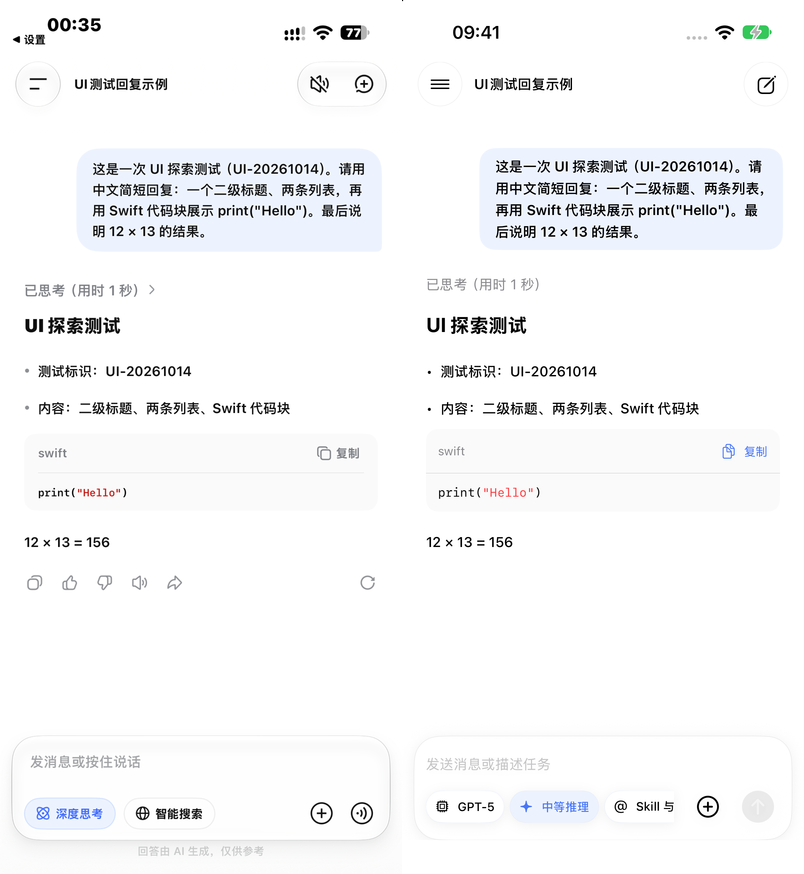
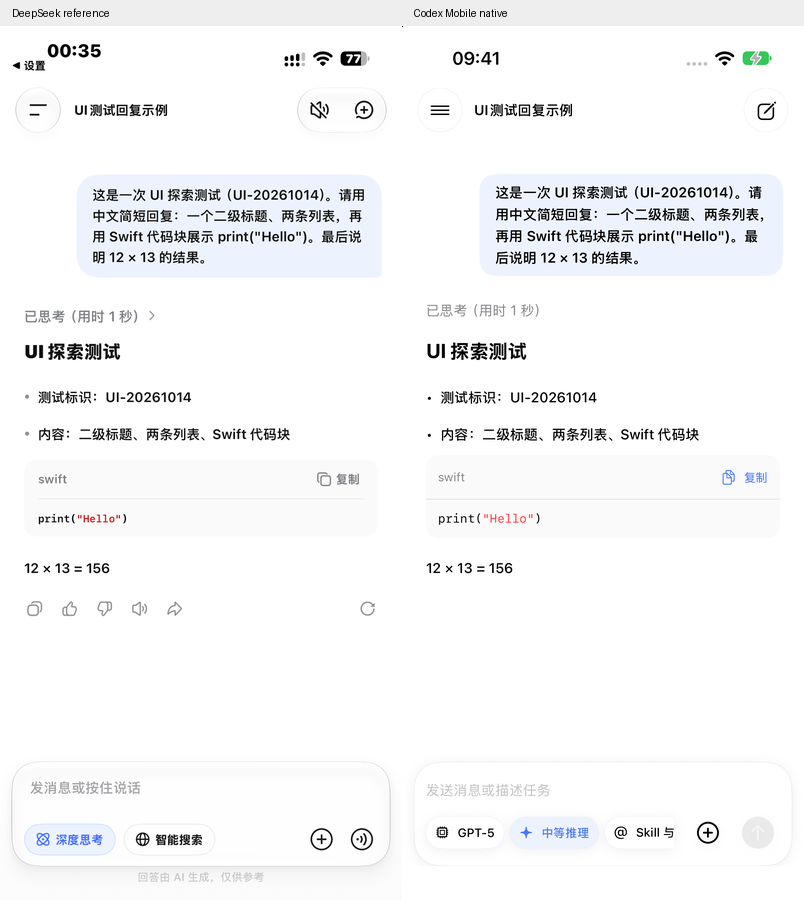
docs(iOS): 说明原生开关并记录整合验证边界
新增功能：
- 无

主要修改：
- 说明默认旧界面、双向开关和完整启动生效规则
- 同步检查点恢复、共享业务及发布日志读取契约
- 更新新鲜截图对照和实际分层验证记录
- 明确真机不可用及旧布局对照中的模拟器自动化限制

diff --git a/docs/superpowers/plans/2026-10-14-native-ios-deepseek.md b/docs/superpowers/plans/2026-10-14-native-ios-deepseek.md
@@ -70,24 +70,28 @@
 
 ## Task 3：双向切换检查点与启动恢复
 
-- [ ] 先写失败测试：初次默认旧实现；普通前后台不切换；正文/附件/设备/项目/会话/设置检查点成功后才改变偏好；存储失败不改变；恢复不自动发送。
-- [ ] 验证失败：`npm test -- tests/ui/native-ui-switch.test.ts`。
-- [ ] 用现有草稿二进制序列化格式存储专用启动检查点，不污染用户手动草稿列表；启动恢复后不发送内容、不重放待确认写操作。
-- [ ] 两套设置连接同一个偏好接口，显示下次启动生效。原生初始化错误页保留手动回旧界面入口。
-- [ ] 验证 Web→原生→Web 和应用重启，运行相关回归、typecheck、构建契约并提交。
+- [x] 先写失败测试：初次默认旧实现；普通前后台不切换；正文/附件/设备/项目/会话/设置检查点成功后才改变偏好；存储失败不改变；恢复不自动发送。
+- [x] 验证失败：`npm test -- tests/ui/native-ui-switch.test.ts`。
+- [x] 用现有草稿二进制序列化格式存储专用启动检查点，不污染用户手动草稿列表；启动恢复后不发送内容、不重放待确认写操作。
+- [x] 两套设置连接同一个偏好接口，显示下次启动生效。原生初始化错误页保留手动回旧界面入口。
+- [x] 验证 Web→原生→Web 和应用重启，运行相关回归、typecheck、构建契约并提交。
+
+整合验收：真实 iPhone 16 Pro / iOS 27 模拟器完成 native→native→Web→native 的完整进程重启，正文和本地选图附件均保留、当前启动保持原界面；最终清理测试输入并保存回旧界面偏好。`test_sim_2026-10-14T14-42-05-393Z_pid23807_066029d3.xcresult` 通过。iOS 27 WebKit 在设备设置弹层未返回 checkbox AX 节点；该一步按新鲜截图的可见位置实际点击，并等待仅 DEBUG 的宿主保存值探针确认，然后以冷启动原生根与内容验证结果。未用 DOM 点击或测试直接写偏好代替用户切换。Task3 规格、质量与最终整合只读审查均通过。
 
 ## Task 4：真实运行与无障碍/视觉回归
 
-- [ ] 检查 iPhone 竖屏新对话/会话/抽屉/设置/输入与键盘、浅深色；其他尺寸不截断、不遮挡输入。
-- [ ] VoiceOver 控件有名称，动态字号不截断核心操作，Reduce Motion 下取消抽屉大幅移动。
-- [ ] 用独立测试会话验收发送、流式、停止、审批、历史/分页、附件/草稿、队列、工具与 Diff，结束及时归档。
-- [ ] 新鲜截图与参考进行归一化对比，记录仅因 CM 功能/品牌差异而有意不同的区域。
-- [ ] 可用真机时尝试安装/运行；安装签名与真机数据保留分别记录，不用模拟器结果替代。
-- [ ] 先规格审查，再 SwiftUI 正确性/质量审查，所有真实问题解决后提交。
+- [x] iPhone 竖屏新对话/会话/抽屉/设置/输入及横屏操作通过，深色与系统无障碍大字号的设置/横屏输入用例通过；iPad真实构建运行截图核对基本布局。
+- [x] 静态与运行时AX核对控件名称，动态字号核心操作仍可达；Reduce Motion取消大幅位移。未声称真机VoiceOver手势已验证。
+- [x] 独立真实网关会话完成发送、回复与归档，切换中的图片和正文真实重启恢复；审批、历史/分页、队列、工具与Diff采用实际App控制器回归和原生富内容参考用例分层覆盖。
+- [x] 更新新鲜402pt并排对照及叠图，保留CM模型/推理/Skill入口、移除DeepSeek独有操作的有意差异。
+- [x] 真机连接检查仍为unavailable；没有把模拟器或设备构建当作覆盖安装和数据保留验证。
+- [x] 规格、SwiftUI质量与最终整合审查通过；修复发现的输入旧绑定、切换未就绪超时、已有线程恢复配置覆盖及发布日志缺失问题。
+
+详见 `docs/research/deepseek-ios-2026-10-14/native-validation.json`。旧Web的安全区与URL连续收键盘回归通过；两个旧中文输入/发送自动化在iOS27仍存在基线焦点时序失败，原ZStack无原生宿主对照同样复现，未记为通过。键盘34pt假阳性已用真实逐帧采样替换旧瞬态viewport推算，严格阈值和真实尾跳正对照均保留。
 
 ## Task 5：协调发布与交付
 
-- [ ] `git diff --check`、必要客户端/构建/发布回归、`typecheck` 通过，保存四项 required checks 验证记录。
+- [x] `git diff --check`、121文件/1214项全量、106项本机默认Node构建契约、157项发布Python、30项协调恢复及typecheck通过，保存四项required checks日志；ready文件绑定随后推送的固定SHA。
 - [ ] 提交并推送固定 SHA，再 `releasectl ready`；不得自行创建正式版本或独立发包。
 - [ ] 等待成功 batch receipt，核对 GitHub 双端、LAN APK/签名 IPA、HTTPS OTA、unsigned 软件源版本/中文日志。
 - [ ] 回复固定 OTA 安装页、APK、IPA 链接与两端版本/大小/SHA-256、IPA 签名状态，说明默认旧界面及开关路径。

diff --git a/docs/native-ui-business-bridge.md b/docs/native-ui-business-bridge.md
@@ -104,7 +104,15 @@ ConfiguredApp 使用真实 `scopedThreads`、`projectDirectories`、`collapsedPr
 - `NativeSnapshot.richContent` 仅提供当前实际内容所需的资源：本地 Markdown 图片 `kind=image, text=原始href, value=缩略URL, previewURL=原图URL`；Mermaid `kind=html, text=规范化LF后的原始源码, value=既有strict引擎生成的SVG`。绘图仅在专用离屏容器布局，没有 DOM 查询或点击业务动作。
 - html/SVG 的 Swift 隔离 WK 无业务桥与持久 store；audio/video/file 使用专门原生展示和下载。没有整屏旧网页业务兜底。
 
-冷启动检查点、双向界面切换与发布验收仍属于 Task3 / 协调入口。
+### 双向切换与启动检查点
+
+- iOS 首次默认 Web；Swift 在进程首次读取偏好后冻结本次模式。两边设置共用 `settings.native-ui` / `NativeSwitchBoundary`，只有专用 IndexedDB 检查点完整事务成功后，才请求宿主保存下次启动偏好；宿主写入失败恢复原值。
+- `codexMobileNativePreference({enabled?})` 通过可信首页桥读取或保存偏好，回传 `{enabled, active}`；当前运行模式不随偏好变化。未就绪或恢复失败时禁用切换；丢失回执有按请求 ID 匹配的有界错误回收。
+- 检查点使用独立数据库，不进入手动草稿列表。保存全部已挂载工作区正文、图片、文件完整二进制、设备、项目、线程与发送配置。设置使用明确白名单；不复制 HTTP session/pending writes、审批秘密答案或待确认写操作。
+- 已准备切换后继续编辑，会串行合并最新状态；同一 File 的二进制读取缓存避免每个字符重复读取。存储失败显示错误、保留当前输入。冷启动先恢复目标与内容再挂载业务；已有线程的首轮 resume 保留本地发送选择，同时同步服务器消息、访问状态，之后普通重连仍采用服务器设置。
+- 人工“使用旧界面恢复”只揭示当前 WK，设置一次性呈现恢复标记并解除原生确认，不重载文档、不重挂业务工作区、不重连传输、不改变持久偏好。原生专用 runtime 停止发布，旧 Web 的设置、面板和确认恢复原有操作。
+
+正式构建、统一版本、签名与渠道回验继续由发布协调入口负责。
 
 ## 验证记录
 

diff --git a/docs/README.md b/docs/README.md
@@ -7,6 +7,7 @@
 - [仓库协作约定](../AGENTS.md)与 [Git 提交规范](commit-conventions.md)：开发、验证和交付要求。
 - [发布协调说明](release-coordination.md)：本项目 releasectl 配置、适配器入口、必要验证、共同凭证及实际验收状态。
 - [iOS OTA 发布](ios-ota-release.md)：本机签名、身份连续性、固定渠道、软件源发布文档入口及安装诊断。
+- [原生 iOS 界面桥接](native-ui-business-bridge.md)：双向切换、检查点与共享业务边界。
 - [iOS 模拟器验证](ios-simulator-verification.md)：可复用操作步骤与按日期保留的验收结果。
 - [协议基准](../protocol/app-server-v2/README.md)：固定快照的版本、来源和使用边界。
 
@@ -29,7 +30,7 @@
 
 近期可追溯记录：
 
-- [恢复网页界面](superpowers/plans/2026-10-10-remove-native-restore-web.md)：原生对话与原生边栏已回退；WKWebView 容器和原生桥保留。
+- [恢复网页界面](superpowers/plans/2026-10-10-remove-native-restore-web.md)：当时原生对话与边栏回退的历史记录；当前可选原生界面以 README 和桥接说明为准。
 - [键盘同步](superpowers/plans/2026-10-10-keyboard-sync.md)与 [审批回复](superpowers/plans/2026-10-10-approval-replies.md)。
 - [项目拖动排序](superpowers/plans/2026-10-10-project-drag-order.md)：实现、验证与 0.2.138 发布记录；已按用户要求[回退](superpowers/plans/2026-10-10-revert-project-order.md)。
 - [内置浏览器视觉记录](../design-qa.md)：原截图未保留，结论仅作历史线索。

diff --git a/docs/release-coordination.md b/docs/release-coordination.md
@@ -26,6 +26,8 @@
 
 适配器命令为 `python3 {workspace}/scripts/codex_mobile_release_adapter.py`，接收上游 `run/check <阶段> --context <文件>` 协议。共享持久状态实现为 `scripts/release_coordination/state.py`；网关阶段为 `scripts/release_coordination/gateway.py`。本机使用现有 Python 3.11、Node.js、Git、gh、curl、Xcode 和原发布工具，不增加运行时依赖。
 
+客户端每批发布前更新受控的 `release/notes.md`，只列本版本实际用户变化。GitHub Release、LAN 和 OTA 共用冻结工作区的日志读取器；显式 manifest 日志优先，当前 canonical manifest 缺少此字段时读取该文件，缺失、空白或与 HEAD 不一致均失败。软件源沿用该 GitHub Release 日志，不用批次 ID 或分发模板代替。
+
 私有 options 引用原 `CodexMobile/ios-release.local.json`、现有 LAN 发布器、现有网关目录/label；软件源管理仅引用该服务既有私有 credentials，凭据不复制、不进入 Git/命令参数或共同凭证。维护软件源仍遵循 [现役上游说明](https://github.com/zh0ngtian/SignOs/blob/main/distribution/source-aggregator/README.md)，只操作本仓库既有 unsigned 订阅，保留完整署名和展示信息，不维护另一个签名包订阅。
 
 ## 验证、冻结与各阶段
